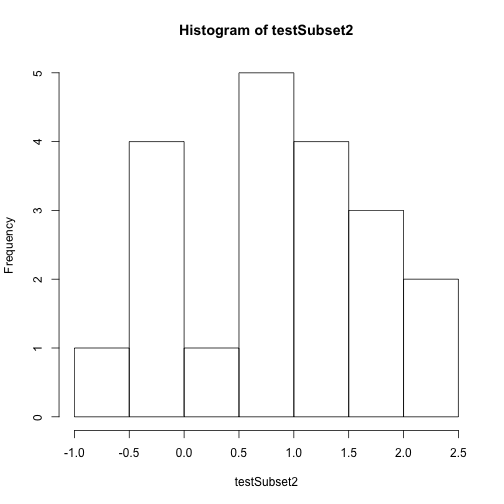
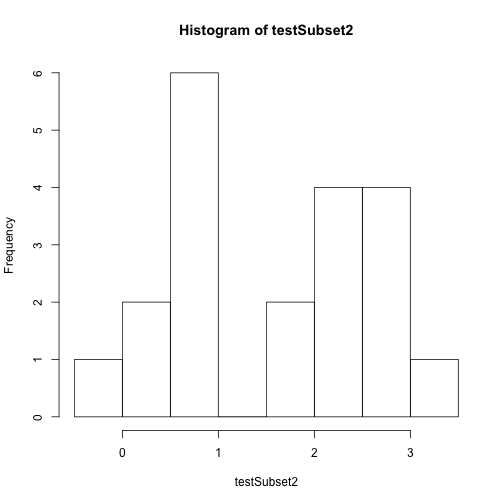
fixed intro lesson

diff --git a/_posts/HDF5/2014-11-05-Intro-HDF5-R.md b/_posts/HDF5/2014-11-05-Intro-HDF5-R.md
@@ -18,7 +18,7 @@ image:
   feature: hierarchy_folder_purple.png
   credit: Colin Williams NEON, Inc.
   creditlink: http://www.neoninc.org
-permalink: /HDF5/Intro-To-HDF5-In-R/
+permalink: 
 comments: true
 ---
 
@@ -86,7 +86,7 @@ First, let's create a basic H5 file with one group and one dataset in it.
     # Create hdf5 file
     h5createFile("vegData.h5")
 
-    ## file '/Users/law/Documents/GitHub_Lwasser/NEON_DataSkills/code/R/vegData.h5' already exists.
+    ## file '/Users/law/Documents/1_Workshops/R_HDF5Intr_NEON/vegData.h5' already exists.
 
     ## [1] FALSE
 
@@ -135,27 +135,27 @@ are working with larger datasets!
 
     ## $aNEONSite
     ## $aNEONSite$temperature
-    ##             [,1]        [,2]
-    ##  [1,]  1.8122862  0.06913715
-    ##  [2,] -0.2308437  1.04064014
-    ##  [3,]  0.9673279 -0.31695725
-    ##  [4,]  0.6373099  0.36371941
-    ##  [5,]  1.9016106 -0.32935333
-    ##  [6,]  0.9315749  1.17706746
-    ##  [7,] -0.4993238  0.51616021
-    ##  [8,]  2.0452858  1.22104540
-    ##  [9,]  2.1620029  1.98437250
-    ## [10,]  0.4645654  1.34885275
-    ## [11,]  1.5672728  1.68520194
-    ## [12,] -0.3120218  2.63177924
-    ## [13,] -0.1790503 -0.35008132
-    ## [14,]  1.3189558 -1.43269059
-    ## [15,]  1.1957761  1.23668448
-    ## [16,]  0.8277318  1.13093588
-    ## [17,]  1.3781958  0.20338761
-    ## [18,]  0.7182626  2.18721239
-    ## [19,] -0.5993603  1.77647682
-    ## [20,]  1.0814607  1.65517841
+    ##              [,1]        [,2]
+    ##  [1,]  2.23422487 -0.07852625
+    ##  [2,]  0.26786598  1.36081870
+    ##  [3,]  2.66173531  2.36202858
+    ##  [4,]  1.67111875  0.34191920
+    ##  [5,]  3.38017116  0.03382429
+    ##  [6,]  2.88843702  0.42599356
+    ##  [7,]  0.51383436  0.97463247
+    ##  [8,]  1.74667018  0.34573353
+    ##  [9,]  2.60094555  2.95225890
+    ## [10,]  2.69883798  0.98374007
+    ## [11,]  0.94892341  0.73109735
+    ## [12,]  2.29210356  0.82711740
+    ## [13,]  0.08904257  0.35962464
+    ## [14,]  0.61905839  1.43372037
+    ## [15,]  0.98138984  0.33686389
+    ## [16,]  0.97405174  0.30414939
+    ## [17,] -0.47462573  1.38024909
+    ## [18,]  0.97836537  1.40940271
+    ## [19,]  2.01101779  0.19000453
+    ## [20,]  2.38003346  0.41152028
 
     #Close the file. This is good practice.
     H5close()
@@ -232,7 +232,7 @@ in R.
     #create a quick plot of the data
     hist(testSubset2)
 
-![ ]({{ site.baseurl }}/~/Documents/GitHub_Lwasser/NEON_DataSkills/images/rfigs/2014-11-05-Intro-HDF5-R/access-plot-data-1.png) 
+![ ]({{ site.baseurl }}/images/rfigs/2014-11-05-Intro-HDF5-R/access-plot-data-1.png) 
 
 ###Challenge -- 
 
